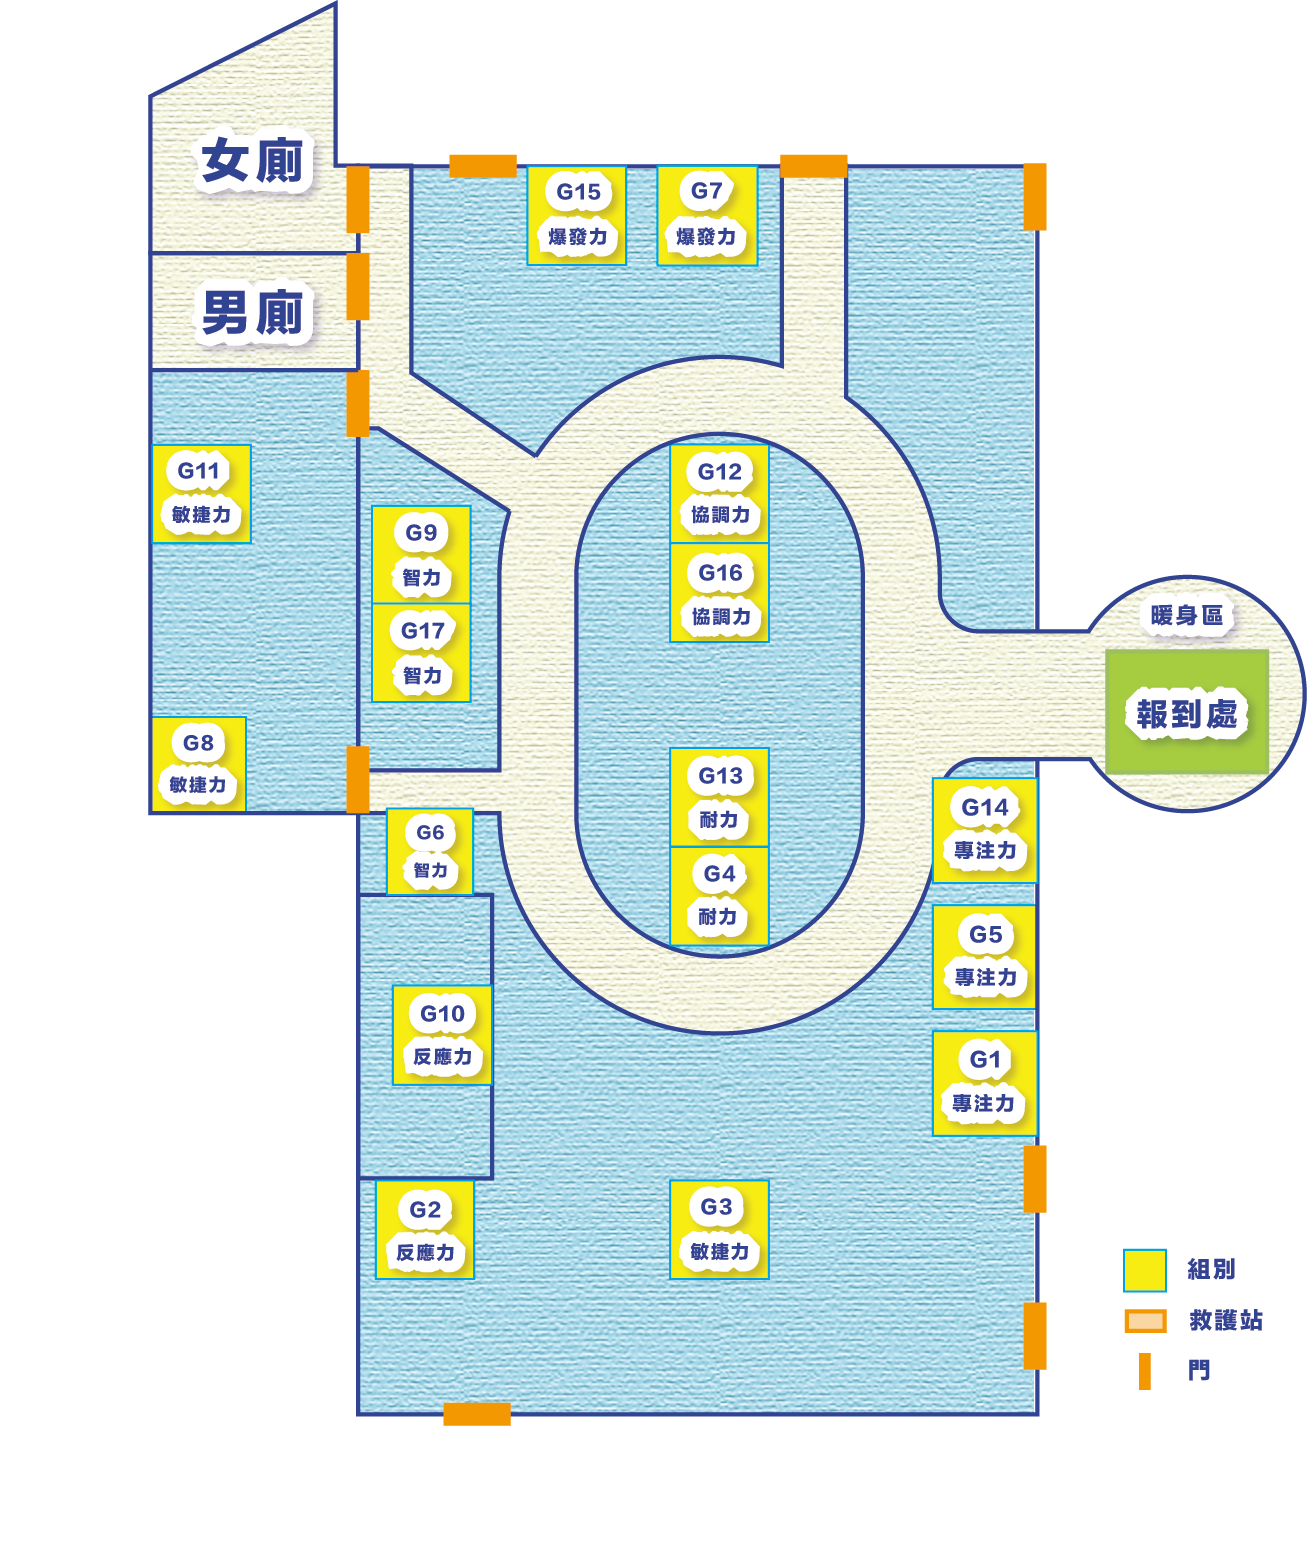
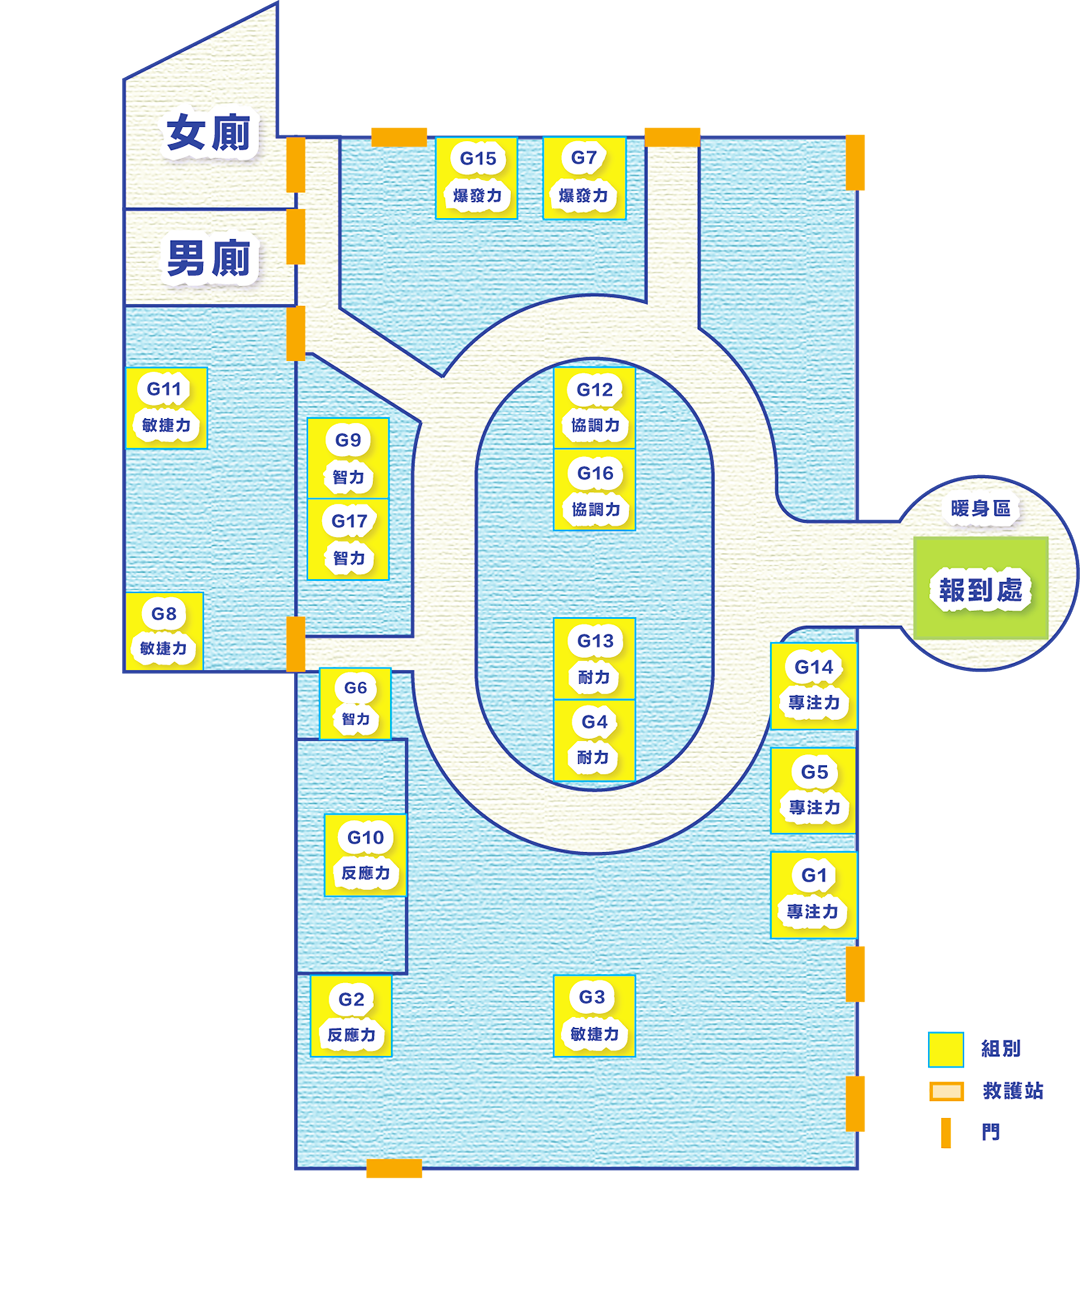
goodddddddddddd

diff --git a/exe/exe12345678/leaderboard/lb-script.js b/exe/exe12345678/leaderboard/lb-script.js
@@ -39,12 +39,41 @@ const domProgressBar = document.getElementById('progress-bar');
 // 核心功能
 // ==========================================
 
+// 1. 初始化
 function init() {
-    loadCategoryPair(currentIndex); 
-    startTimer();
+    showKeyVisual(); // 🌟 程式一啟動，先秀出主視覺！
 }
 
-function startTimer() {
+// 2. 顯示主視覺畫面 (停留 SWITCH_INTERVAL 後，自動進入排行榜)
+function showKeyVisual() {
+    const kvScreen = document.getElementById('key-visual-screen');
+    const kvProgressBar = document.getElementById('kv-progress-bar');
+    
+    kvScreen.classList.add('active'); // 淡入顯示主視覺
+    
+    // 重置主視覺專屬的進度條
+    if(kvProgressBar) {
+        kvProgressBar.style.transition = 'none';
+        kvProgressBar.style.width = '0%';
+        void kvProgressBar.offsetWidth;
+        kvProgressBar.style.transition = `width ${SWITCH_INTERVAL}ms linear`;
+        kvProgressBar.style.width = '100%';
+    }
+
+    // 🌟 在背後偷偷先載入第一組排行榜資料，這樣等一下過場才不會有白畫面
+    currentIndex = 0;
+    loadCategoryPair(currentIndex);
+
+    // 設定定時器：時間到就隱藏主視覺，開始播排行榜
+    if (timer) clearInterval(timer);
+    timer = setInterval(() => {
+        kvScreen.classList.remove('active'); // 淡出隱藏主視覺
+        startLeaderboardTimer();             // 啟動排行榜的輪播
+    }, SWITCH_INTERVAL);
+}
+
+// 3. 啟動排行榜的計時與進度條
+function startLeaderboardTimer() {
     domProgressBar.style.transition = 'none';
     domProgressBar.style.width = '0%';
     void domProgressBar.offsetWidth; 
@@ -53,18 +82,25 @@ function startTimer() {
 
     if (timer) clearInterval(timer);
     timer = setInterval(() => {
-        nextCategoryPair();
+        nextCategoryPair(); // 翻到下一頁
     }, SWITCH_INTERVAL);
 }
 
-// 🌟 每次跳 2 個 index (左邊一個，右邊一個)
+// 4. 切換到下一組排行榜
 function nextCategoryPair() {
     currentIndex += 2;
+    
+    // 🌟 核心魔法：如果排行榜全部播完了怎麼辦？
     if (currentIndex >= CAROUSEL_LIST.length) {
-        currentIndex = 0; 
+        // 放回主視覺，開啟新的一輪！
+        showKeyVisual();
+        return; 
     }
+
+    // 如果還沒播完，就繼續載入下一組
     loadCategoryPair(currentIndex);
     
+    // 重置排行榜自己的進度條
     domProgressBar.style.transition = 'none';
     domProgressBar.style.width = '0%';
     setTimeout(() => {

diff --git a/exe/exe12345678/leaderboard/lb-style.css b/exe/exe12345678/leaderboard/lb-style.css
@@ -241,3 +241,53 @@ body {
     text-align: center;
     white-space: nowrap; 
 }
+/* =========================================
+   🔥 滿版主視覺畫面 (Key Visual)
+   ========================================= */
+#key-visual-screen {
+    position: fixed;
+    top: 0;
+    left: 0;
+    width: 100vw;
+    height: 100vh;
+    background-color: #ebebeb;
+    z-index: 2000; /* 蓋過所有排行榜跟 QR Code */
+    display: flex;
+    justify-content: center;
+    align-items: center;
+    
+    /* 預設隱藏，靠 JS 切換 active 來淡入淡出 */
+    opacity: 0;
+    visibility: hidden;
+    transition: opacity 0.6s ease, visibility 0.6s ease;
+}
+
+#key-visual-screen.active {
+    opacity: 1;
+    visibility: visible;
+}
+
+/* 主視覺圖片滿版裁切 */
+#key-visual-screen img {
+    width: 100%;
+    height: 100%;
+    object-fit: contain;
+    display: block;
+}
+
+/* 主視覺專屬進度條 (貼在螢幕最下方) */
+.kv-progress-container {
+    position: absolute;
+    bottom: 0;
+    left: 0;
+    width: 100%;
+    height: 8px;
+    background-color: rgba(0, 0, 0, 0.4);
+}
+
+.kv-progress-bar {
+    height: 100%;
+    background-color: #C7FF3C;
+    box-shadow: 0 0 15px rgba(199, 255, 60, 0.8);
+    width: 0%;
+}

diff --git a/exe/exe12345678/leaderboard/leaderboard.html b/exe/exe12345678/leaderboard/leaderboard.html
@@ -38,6 +38,16 @@
             </div>
         </div>
     </div>
+    <div id="key-visual-screen" class="active">
+        <img src="img/lll.webp" alt="大會主視覺">
+        
+        <div class="kv-progress-container">
+            <div class="kv-progress-bar" id="kv-progress-bar"></div>
+        </div>
+    </div>
+
+    <script src="lb-script.js"></script>
+</body>
 
     <script src="lb-script.js"></script>
 </body>
